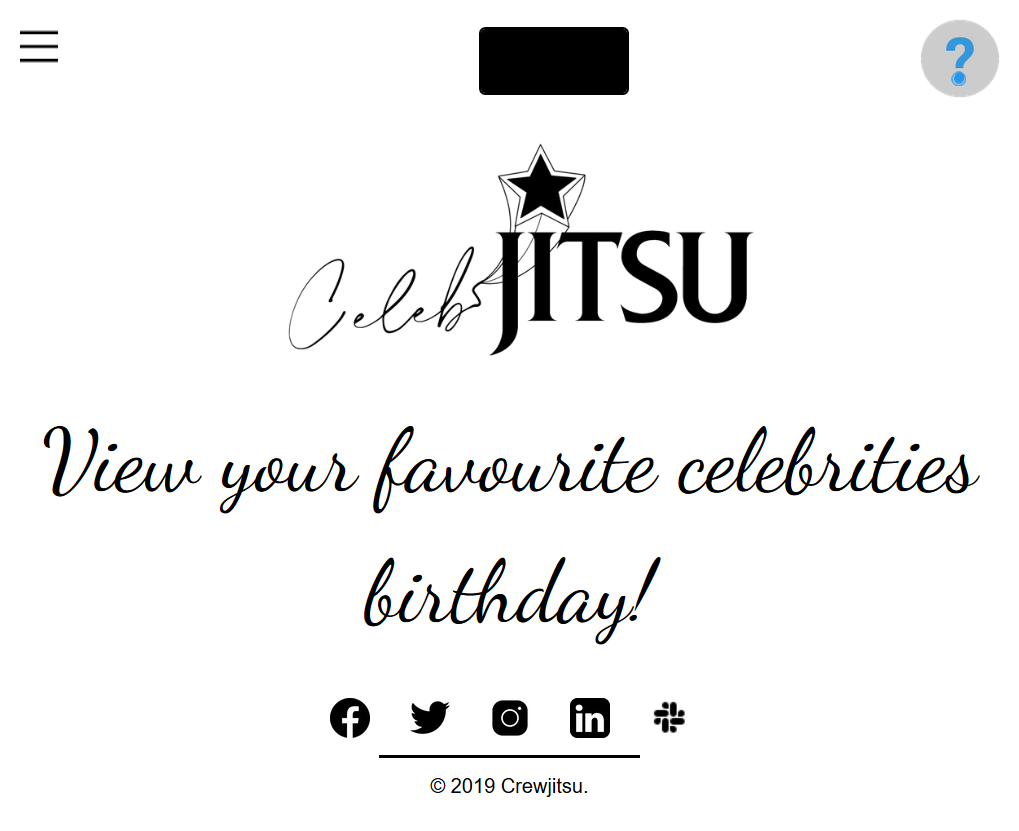
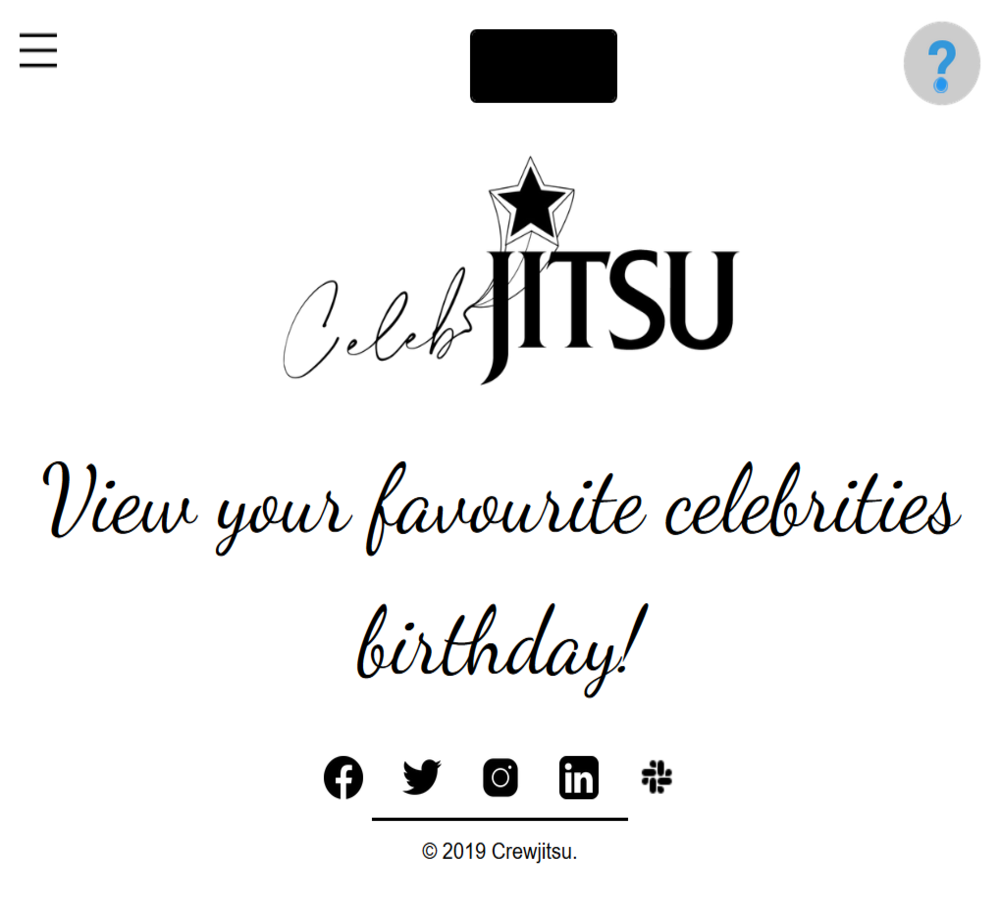
jvgulbjk

diff --git a/index.html b/index.html
@@ -14,7 +14,9 @@
 
     <!-- your stylesheet and any other styling code, e.g. google fonts -->
     <link rel="stylesheet" href="css/layout.css">
-<link href="https://fonts.googleapis.com/css?family=Roboto|Roboto+Condensed|Source+Sans+Pro&display=swap" rel="stylesheet">
+<link href="https://fonts.googleapis.com/css?family=Roboto&display=swap" rel="stylesheet">
+<link href="https://fonts.googleapis.com/css?family=Roboto+Condensed&display=swap" rel="stylesheet">
+<link href="https://fonts.googleapis.com/css?family=Source+Sans+Pro&display=swap" rel="stylesheet">
 </head>
 
 <body>
@@ -155,18 +157,11 @@
                 <span
                     class="footer-separator">&middot;</span> <span class="footer-text">This is student coursework</span> <span class="footer-separator">&middot;</span> <span class="footer-text">Tutor <a href="mailto:d.j.wilson@mmu.ac.uk">Derren Wilson</a></span> <span class="footer-separator">&middot;</span>                    <span class="footer-text">
      <a href="http://validator.w3.org/check?uri=referer" title="W3C HTML Validation Service" >Valid HTML</a></span> </p>
-    <p>
+    
         <a href="http://jigsaw.w3.org/css-validator/check/referer">
             <img style="border:0;width:88px;height:31px" src="http://jigsaw.w3.org/css-validator/images/vcss-blue"
                 alt="Valid CSS!" />
         </a>
-    </p>
-    <p>
-        <a href="http://jigsaw.w3.org/css-validator/check/referer">
-            <img style="border:0;width:88px;height:31px" src="http://jigsaw.w3.org/css-validator/images/vcss"
-                alt="Valid CSS!" />
-        </a>
-    </p>
     </div>
    <hr class = "footer-break-design"/>
 &copy; 2020 Crewjitsu.

diff --git a/css/layout.css b/css/layout.css
@@ -12,10 +12,9 @@ body {
     sans-serif;
     /* update with Google font, web safe font and generic fallback */
     font-size: 100%; /* the default browser font size is 16px */
-    line-height: 1 ; /* update to suit your type choices */
+    line-height: 1.4; /* update to suit your type choices */
     color: #000;  /* base text colour - update to suit your design */
-    
-background-image: url(../images/scifitunnel05.mp4);
+background-color: white;
 background-repeat: no-repeat;
 background-size: cover;
 background-position: center;
@@ -338,7 +337,7 @@ form textarea {
 
           form input[type="submit"] {
             min-width: 0;
-              background-color: #325967;
+              background-color: #1c4242;
               border: 0;
               border-radius: 0.2em;
               padding: 13px 30px;
@@ -376,6 +375,8 @@ text-align: center;
   margin-top: -1rem;
   height: 2rem;
   width: 2rem;
+  margin-left:1rem;
+  margin-right:1rem;
 }
 
 div.footer-content p {
